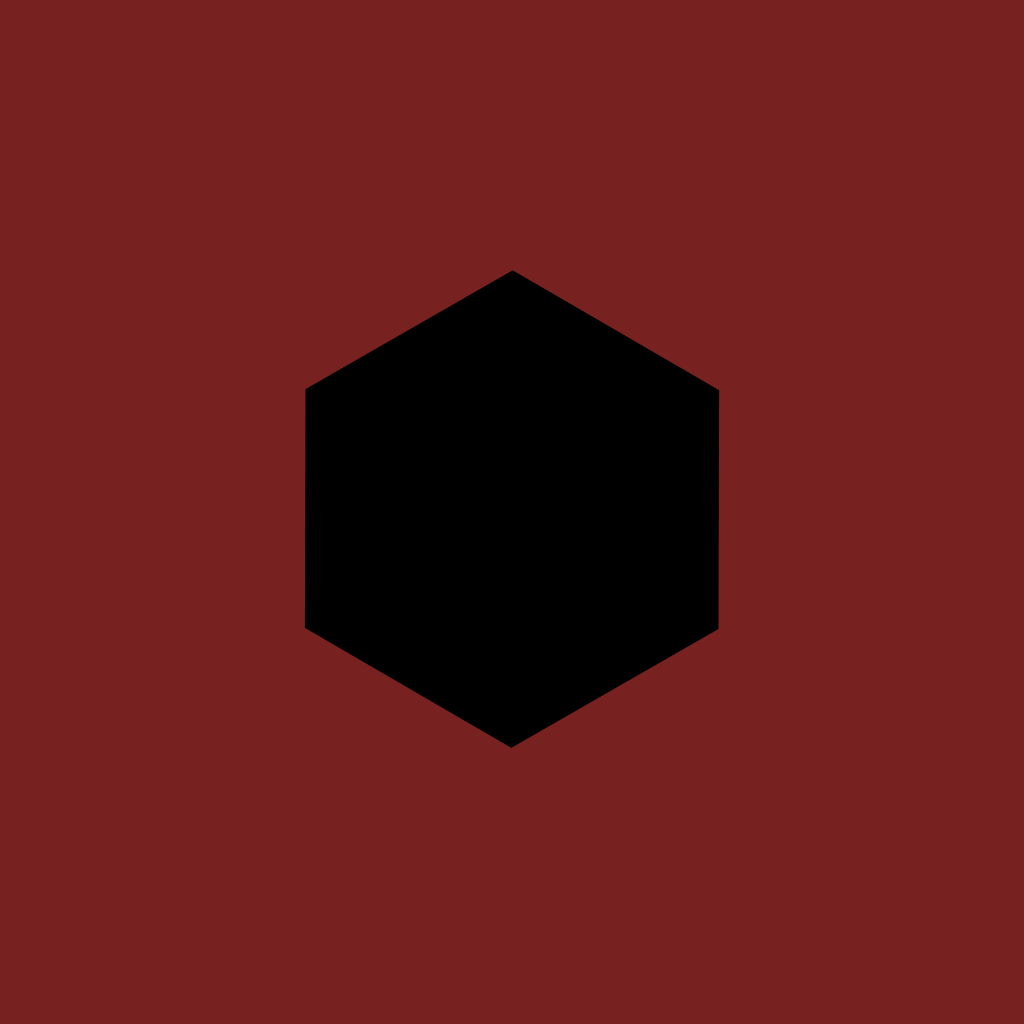
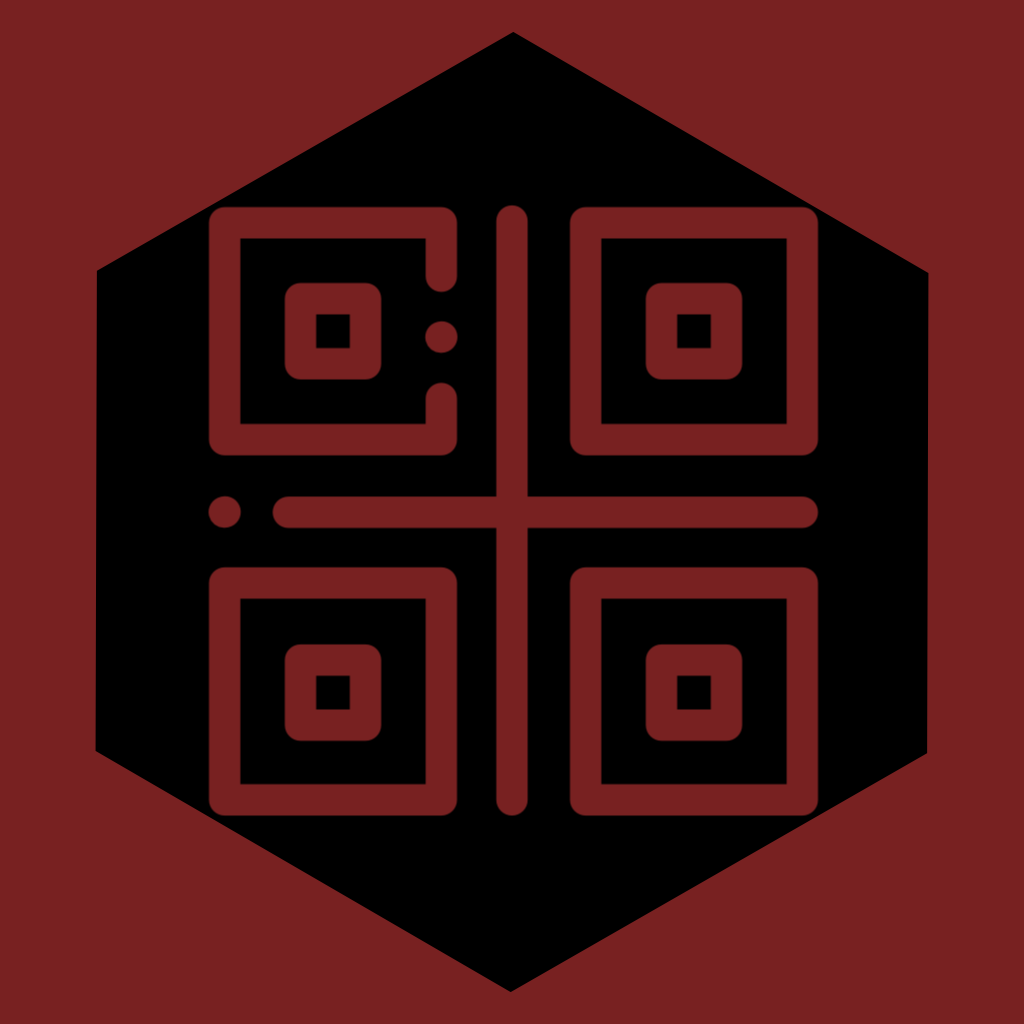
Cuatro. Splash + icono + spinner + botones

diff --git a/src/app/auth/login/login.page.scss b/src/app/auth/login/login.page.scss
@@ -34,3 +34,132 @@ ion-spinner {
   bottom: 0;
   right: 0;
 }
+
+
+#custom-overlay {
+  position: fixed;
+  top: 0;
+  right: 0;
+  bottom: 0;
+  left: 0;
+  z-index: 100000;
+  width:100%;
+  background-color: #ce93d8;
+}
+
+.flb {
+  background-color: #5d4037;
+  height:100%;
+  width:100%;
+  animation: pulse 1s linear forwards;
+  display: flex;
+  align-items: center;
+  justify-content: center;
+}
+.Aligner-item {
+  max-width: 50%;
+}
+.Aligner-item--top {
+  align-self: flex-start;
+}
+.Aligner-item--bottom {
+  align-self: flex-end;
+}
+#custom-overlay img {
+  display: block;
+  margin: 0 auto;
+  width: 25%;
+  height: auto;
+  animation: animation 3100ms linear infinite both;
+  animation-delay: 1s;
+}
+
+@keyframes pulse {
+  0% {
+    opacity:0;
+  }
+  100% {
+    opacity:1;
+  }
+}
+
+
+
+.animation-target {
+  -webkit-animation: animation 865ms linear both;
+  animation: animation 865ms linear both;
+}
+
+/* Generated with Bounce.js. Edit at http://bouncejs.com#%7Bs%3A%5B%7BT%3A%22t%22%2Ce%3A%22b%22%2Cd%3A600%2CD%3A0%2Cf%3A%7Bx%3A-300%2Cy%3A0%7D%2Ct%3A%7Bx%3A0%2Cy%3A0%7D%2Cs%3A4%2Cb%3A4%7D%2C%7BT%3A%22c%22%2Ce%3A%22s%22%2Cd%3A800%2CD%3A65%2Cf%3A%7Bx%3A1%2Cy%3A1%7D%2Ct%3A%7Bx%3A0.1%2Cy%3A2.3%7D%2Cs%3A2%2Cb%3A4%7D%2C%7BT%3A%22c%22%2Ce%3A%22s%22%2Cd%3A300%2CD%3A30%2Cf%3A%7Bx%3A1%2Cy%3A1%7D%2Ct%3A%7Bx%3A5%2Cy%3A1%7D%2Cs%3A3%2Cb%3A4%7D%5D%7D */
+
+@-webkit-keyframes animation {
+  0% { -webkit-transform: matrix3d(1, 0, 0, 0, 0, 1, 0, 0, 0, 0, 1, 0, -300, 0, 0, 1); transform: matrix3d(1, 0, 0, 0, 0, 1, 0, 0, 0, 0, 1, 0, -300, 0, 0, 1); }
+  2.92% { -webkit-transform: matrix3d(1, 0, 0, 0, 0, 1, 0, 0, 0, 0, 1, 0, -135.218, 0, 0, 1); transform: matrix3d(1, 0, 0, 0, 0, 1, 0, 0, 0, 0, 1, 0, -135.218, 0, 0, 1); }
+  3.37% { -webkit-transform: matrix3d(1, 0, 0, 0, 0, 1, 0, 0, 0, 0, 1, 0, -114.871, 0, 0, 1); transform: matrix3d(1, 0, 0, 0, 0, 1, 0, 0, 0, 0, 1, 0, -114.871, 0, 0, 1); }
+  3.47% { -webkit-transform: matrix3d(1, 0, 0, 0, 0, 1, 0, 0, 0, 0, 1, 0, -110.596, 0, 0, 1); transform: matrix3d(1, 0, 0, 0, 0, 1, 0, 0, 0, 0, 1, 0, -110.596, 0, 0, 1); }
+  4.58% { -webkit-transform: matrix3d(2.061, 0, 0, 0, 0, 1, 0, 0, 0, 0, 1, 0, -68.65, 0, 0, 1); transform: matrix3d(2.061, 0, 0, 0, 0, 1, 0, 0, 0, 0, 1, 0, -68.65, 0, 0, 1); }
+  5.69% { -webkit-transform: matrix3d(2.321, 0, 0, 0, 0, 1, 0, 0, 0, 0, 1, 0, -36.551, 0, 0, 1); transform: matrix3d(2.321, 0, 0, 0, 0, 1, 0, 0, 0, 0, 1, 0, -36.551, 0, 0, 1); }
+  5.76% { -webkit-transform: matrix3d(2.32, 0, 0, 0, 0, 1, 0, 0, 0, 0, 1, 0, -34.768, 0, 0, 1); transform: matrix3d(2.32, 0, 0, 0, 0, 1, 0, 0, 0, 0, 1, 0, -34.768, 0, 0, 1); }
+  7.41% { -webkit-transform: matrix3d(1.99, 0, 0, 0, 0, 1, 0, 0, 0, 0, 1, 0, -3.804, 0, 0, 1); transform: matrix3d(1.99, 0, 0, 0, 0, 1, 0, 0, 0, 0, 1, 0, -3.804, 0, 0, 1); }
+  7.51% { -webkit-transform: matrix3d(1.961, 0, 0, 0, 0, 1, 0, 0, 0, 0, 1, 0, -2.454, 0, 0, 1); transform: matrix3d(1.961, 0, 0, 0, 0, 1, 0, 0, 0, 0, 1, 0, -2.454, 0, 0, 1); }
+  7.88% { -webkit-transform: matrix3d(1.771, 0, 0, 0, 0, 1.062, 0, 0, 0, 0, 1, 0, 2.008, 0, 0, 1); transform: matrix3d(1.771, 0, 0, 0, 0, 1.062, 0, 0, 0, 0, 1, 0, 2.008, 0, 0, 1); }
+  8.68% { -webkit-transform: matrix3d(1.408, 0, 0, 0, 0, 1.181, 0, 0, 0, 0, 1, 0, 9.646, 0, 0, 1); transform: matrix3d(1.408, 0, 0, 0, 0, 1.181, 0, 0, 0, 0, 1, 0, 9.646, 0, 0, 1); }
+  10.03% { -webkit-transform: matrix3d(0.982, 0, 0, 0, 0, 1.333, 0, 0, 0, 0, 1, 0, 16.853, 0, 0, 1); transform: matrix3d(0.982, 0, 0, 0, 0, 1.333, 0, 0, 0, 0, 1, 0, 16.853, 0, 0, 1); }
+  10.85% { -webkit-transform: matrix3d(0.822, 0, 0, 0, 0, 1.398, 0, 0, 0, 0, 1, 0, 18.613, 0, 0, 1); transform: matrix3d(0.822, 0, 0, 0, 0, 1.398, 0, 0, 0, 0, 1, 0, 18.613, 0, 0, 1); }
+  11.53% { -webkit-transform: matrix3d(0.732, 0, 0, 0, 0, 1.439, 0, 0, 0, 0, 1, 0, 18.992, 0, 0, 1); transform: matrix3d(0.732, 0, 0, 0, 0, 1.439, 0, 0, 0, 0, 1, 0, 18.992, 0, 0, 1); }
+  12.22% { -webkit-transform: matrix3d(0.672, 0, 0, 0, 0, 1.469, 0, 0, 0, 0, 1, 0, 18.618, 0, 0, 1); transform: matrix3d(0.672, 0, 0, 0, 0, 1.469, 0, 0, 0, 0, 1, 0, 18.618, 0, 0, 1); }
+  14.18% { -webkit-transform: matrix3d(0.612, 0, 0, 0, 0, 1.501, 0, 0, 0, 0, 1, 0, 15.054, 0, 0, 1); transform: matrix3d(0.612, 0, 0, 0, 0, 1.501, 0, 0, 0, 0, 1, 0, 15.054, 0, 0, 1); }
+  14.37% { -webkit-transform: matrix3d(0.612, 0, 0, 0, 0, 1.501, 0, 0, 0, 0, 1, 0, 14.604, 0, 0, 1); transform: matrix3d(0.612, 0, 0, 0, 0, 1.501, 0, 0, 0, 0, 1, 0, 14.604, 0, 0, 1); }
+  19.23% { -webkit-transform: matrix3d(0.737, 0, 0, 0, 0, 1.371, 0, 0, 0, 0, 1, 0, 3.855, 0, 0, 1); transform: matrix3d(0.737, 0, 0, 0, 0, 1.371, 0, 0, 0, 0, 1, 0, 3.855, 0, 0, 1); }
+  20.01% { -webkit-transform: matrix3d(0.763, 0, 0, 0, 0, 1.338, 0, 0, 0, 0, 1, 0, 2.724, 0, 0, 1); transform: matrix3d(0.763, 0, 0, 0, 0, 1.338, 0, 0, 0, 0, 1, 0, 2.724, 0, 0, 1); }
+  23.05% { -webkit-transform: matrix3d(0.856, 0, 0, 0, 0, 1.211, 0, 0, 0, 0, 1, 0, 0.036, 0, 0, 1); transform: matrix3d(0.856, 0, 0, 0, 0, 1.211, 0, 0, 0, 0, 1, 0, 0.036, 0, 0, 1); }
+  25.75% { -webkit-transform: matrix3d(0.923, 0, 0, 0, 0, 1.114, 0, 0, 0, 0, 1, 0, -0.709, 0, 0, 1); transform: matrix3d(0.923, 0, 0, 0, 0, 1.114, 0, 0, 0, 0, 1, 0, -0.709, 0, 0, 1); }
+  26.94% { -webkit-transform: matrix3d(0.947, 0, 0, 0, 0, 1.078, 0, 0, 0, 0, 1, 0, -0.76, 0, 0, 1); transform: matrix3d(0.947, 0, 0, 0, 0, 1.078, 0, 0, 0, 0, 1, 0, -0.76, 0, 0, 1); }
+  31.58% { -webkit-transform: matrix3d(1.009, 0, 0, 0, 0, 0.987, 0, 0, 0, 0, 1, 0, -0.406, 0, 0, 1); transform: matrix3d(1.009, 0, 0, 0, 0, 0.987, 0, 0, 0, 0, 1, 0, -0.406, 0, 0, 1); }
+  31.73% { -webkit-transform: matrix3d(1.01, 0, 0, 0, 0, 0.986, 0, 0, 0, 0, 1, 0, -0.392, 0, 0, 1); transform: matrix3d(1.01, 0, 0, 0, 0, 0.986, 0, 0, 0, 0, 1, 0, -0.392, 0, 0, 1); }
+  37.32% { -webkit-transform: matrix3d(1.029, 0, 0, 0, 0, 0.958, 0, 0, 0, 0, 1, 0, -0.03, 0, 0, 1); transform: matrix3d(1.029, 0, 0, 0, 0, 0.958, 0, 0, 0, 0, 1, 0, -0.03, 0, 0, 1); }
+  38.15% { -webkit-transform: matrix3d(1.029, 0, 0, 0, 0, 0.958, 0, 0, 0, 0, 1, 0, -0.008, 0, 0, 1); transform: matrix3d(1.029, 0, 0, 0, 0, 0.958, 0, 0, 0, 0, 1, 0, -0.008, 0, 0, 1); }
+  42.35% { -webkit-transform: matrix3d(1.022, 0, 0, 0, 0, 0.969, 0, 0, 0, 0, 1, 0, 0.03, 0, 0, 1); transform: matrix3d(1.022, 0, 0, 0, 0, 0.969, 0, 0, 0, 0, 1, 0, 0.03, 0, 0, 1); }
+  48.9% { -webkit-transform: matrix3d(1.007, 0, 0, 0, 0, 0.99, 0, 0, 0, 0, 1, 0, 0.009, 0, 0, 1); transform: matrix3d(1.007, 0, 0, 0, 0, 0.99, 0, 0, 0, 0, 1, 0, 0.009, 0, 0, 1); }
+  57.77% { -webkit-transform: matrix3d(0.998, 0, 0, 0, 0, 1.003, 0, 0, 0, 0, 1, 0, -0.001, 0, 0, 1); transform: matrix3d(0.998, 0, 0, 0, 0, 1.003, 0, 0, 0, 0, 1, 0, -0.001, 0, 0, 1); }
+  60.47% { -webkit-transform: matrix3d(0.998, 0, 0, 0, 0, 1.004, 0, 0, 0, 0, 1, 0, -0.001, 0, 0, 1); transform: matrix3d(0.998, 0, 0, 0, 0, 1.004, 0, 0, 0, 0, 1, 0, -0.001, 0, 0, 1); }
+  69.36% { -webkit-transform: matrix3d(0.999, 0, 0, 0, 0, 1.001, 0, 0, 0, 0, 1, 0, 0, 0, 0, 1); transform: matrix3d(0.999, 0, 0, 0, 0, 1.001, 0, 0, 0, 0, 1, 0, 0, 0, 0, 1); }
+  83.61% { -webkit-transform: matrix3d(1, 0, 0, 0, 0, 1, 0, 0, 0, 0, 1, 0, 0, 0, 0, 1); transform: matrix3d(1, 0, 0, 0, 0, 1, 0, 0, 0, 0, 1, 0, 0, 0, 0, 1); }
+  100% { -webkit-transform: matrix3d(1, 0, 0, 0, 0, 1, 0, 0, 0, 0, 1, 0, 0, 0, 0, 1); transform: matrix3d(1, 0, 0, 0, 0, 1, 0, 0, 0, 0, 1, 0, 0, 0, 0, 1); }
+}
+
+@keyframes animation {
+  0% { -webkit-transform: matrix3d(1, 0, 0, 0, 0, 1, 0, 0, 0, 0, 1, 0, -300, 0, 0, 1); transform: matrix3d(1, 0, 0, 0, 0, 1, 0, 0, 0, 0, 1, 0, -300, 0, 0, 1); }
+  2.92% { -webkit-transform: matrix3d(1, 0, 0, 0, 0, 1, 0, 0, 0, 0, 1, 0, -135.218, 0, 0, 1); transform: matrix3d(1, 0, 0, 0, 0, 1, 0, 0, 0, 0, 1, 0, -135.218, 0, 0, 1); }
+  3.37% { -webkit-transform: matrix3d(1, 0, 0, 0, 0, 1, 0, 0, 0, 0, 1, 0, -114.871, 0, 0, 1); transform: matrix3d(1, 0, 0, 0, 0, 1, 0, 0, 0, 0, 1, 0, -114.871, 0, 0, 1); }
+  3.47% { -webkit-transform: matrix3d(1, 0, 0, 0, 0, 1, 0, 0, 0, 0, 1, 0, -110.596, 0, 0, 1); transform: matrix3d(1, 0, 0, 0, 0, 1, 0, 0, 0, 0, 1, 0, -110.596, 0, 0, 1); }
+  4.58% { -webkit-transform: matrix3d(2.061, 0, 0, 0, 0, 1, 0, 0, 0, 0, 1, 0, -68.65, 0, 0, 1); transform: matrix3d(2.061, 0, 0, 0, 0, 1, 0, 0, 0, 0, 1, 0, -68.65, 0, 0, 1); }
+  5.69% { -webkit-transform: matrix3d(2.321, 0, 0, 0, 0, 1, 0, 0, 0, 0, 1, 0, -36.551, 0, 0, 1); transform: matrix3d(2.321, 0, 0, 0, 0, 1, 0, 0, 0, 0, 1, 0, -36.551, 0, 0, 1); }
+  5.76% { -webkit-transform: matrix3d(2.32, 0, 0, 0, 0, 1, 0, 0, 0, 0, 1, 0, -34.768, 0, 0, 1); transform: matrix3d(2.32, 0, 0, 0, 0, 1, 0, 0, 0, 0, 1, 0, -34.768, 0, 0, 1); }
+  7.41% { -webkit-transform: matrix3d(1.99, 0, 0, 0, 0, 1, 0, 0, 0, 0, 1, 0, -3.804, 0, 0, 1); transform: matrix3d(1.99, 0, 0, 0, 0, 1, 0, 0, 0, 0, 1, 0, -3.804, 0, 0, 1); }
+  7.51% { -webkit-transform: matrix3d(1.961, 0, 0, 0, 0, 1, 0, 0, 0, 0, 1, 0, -2.454, 0, 0, 1); transform: matrix3d(1.961, 0, 0, 0, 0, 1, 0, 0, 0, 0, 1, 0, -2.454, 0, 0, 1); }
+  7.88% { -webkit-transform: matrix3d(1.771, 0, 0, 0, 0, 1.062, 0, 0, 0, 0, 1, 0, 2.008, 0, 0, 1); transform: matrix3d(1.771, 0, 0, 0, 0, 1.062, 0, 0, 0, 0, 1, 0, 2.008, 0, 0, 1); }
+  8.68% { -webkit-transform: matrix3d(1.408, 0, 0, 0, 0, 1.181, 0, 0, 0, 0, 1, 0, 9.646, 0, 0, 1); transform: matrix3d(1.408, 0, 0, 0, 0, 1.181, 0, 0, 0, 0, 1, 0, 9.646, 0, 0, 1); }
+  10.03% { -webkit-transform: matrix3d(0.982, 0, 0, 0, 0, 1.333, 0, 0, 0, 0, 1, 0, 16.853, 0, 0, 1); transform: matrix3d(0.982, 0, 0, 0, 0, 1.333, 0, 0, 0, 0, 1, 0, 16.853, 0, 0, 1); }
+  10.85% { -webkit-transform: matrix3d(0.822, 0, 0, 0, 0, 1.398, 0, 0, 0, 0, 1, 0, 18.613, 0, 0, 1); transform: matrix3d(0.822, 0, 0, 0, 0, 1.398, 0, 0, 0, 0, 1, 0, 18.613, 0, 0, 1); }
+  11.53% { -webkit-transform: matrix3d(0.732, 0, 0, 0, 0, 1.439, 0, 0, 0, 0, 1, 0, 18.992, 0, 0, 1); transform: matrix3d(0.732, 0, 0, 0, 0, 1.439, 0, 0, 0, 0, 1, 0, 18.992, 0, 0, 1); }
+  12.22% { -webkit-transform: matrix3d(0.672, 0, 0, 0, 0, 1.469, 0, 0, 0, 0, 1, 0, 18.618, 0, 0, 1); transform: matrix3d(0.672, 0, 0, 0, 0, 1.469, 0, 0, 0, 0, 1, 0, 18.618, 0, 0, 1); }
+  14.18% { -webkit-transform: matrix3d(0.612, 0, 0, 0, 0, 1.501, 0, 0, 0, 0, 1, 0, 15.054, 0, 0, 1); transform: matrix3d(0.612, 0, 0, 0, 0, 1.501, 0, 0, 0, 0, 1, 0, 15.054, 0, 0, 1); }
+  14.37% { -webkit-transform: matrix3d(0.612, 0, 0, 0, 0, 1.501, 0, 0, 0, 0, 1, 0, 14.604, 0, 0, 1); transform: matrix3d(0.612, 0, 0, 0, 0, 1.501, 0, 0, 0, 0, 1, 0, 14.604, 0, 0, 1); }
+  19.23% { -webkit-transform: matrix3d(0.737, 0, 0, 0, 0, 1.371, 0, 0, 0, 0, 1, 0, 3.855, 0, 0, 1); transform: matrix3d(0.737, 0, 0, 0, 0, 1.371, 0, 0, 0, 0, 1, 0, 3.855, 0, 0, 1); }
+  20.01% { -webkit-transform: matrix3d(0.763, 0, 0, 0, 0, 1.338, 0, 0, 0, 0, 1, 0, 2.724, 0, 0, 1); transform: matrix3d(0.763, 0, 0, 0, 0, 1.338, 0, 0, 0, 0, 1, 0, 2.724, 0, 0, 1); }
+  23.05% { -webkit-transform: matrix3d(0.856, 0, 0, 0, 0, 1.211, 0, 0, 0, 0, 1, 0, 0.036, 0, 0, 1); transform: matrix3d(0.856, 0, 0, 0, 0, 1.211, 0, 0, 0, 0, 1, 0, 0.036, 0, 0, 1); }
+  25.75% { -webkit-transform: matrix3d(0.923, 0, 0, 0, 0, 1.114, 0, 0, 0, 0, 1, 0, -0.709, 0, 0, 1); transform: matrix3d(0.923, 0, 0, 0, 0, 1.114, 0, 0, 0, 0, 1, 0, -0.709, 0, 0, 1); }
+  26.94% { -webkit-transform: matrix3d(0.947, 0, 0, 0, 0, 1.078, 0, 0, 0, 0, 1, 0, -0.76, 0, 0, 1); transform: matrix3d(0.947, 0, 0, 0, 0, 1.078, 0, 0, 0, 0, 1, 0, -0.76, 0, 0, 1); }
+  31.58% { -webkit-transform: matrix3d(1.009, 0, 0, 0, 0, 0.987, 0, 0, 0, 0, 1, 0, -0.406, 0, 0, 1); transform: matrix3d(1.009, 0, 0, 0, 0, 0.987, 0, 0, 0, 0, 1, 0, -0.406, 0, 0, 1); }
+  31.73% { -webkit-transform: matrix3d(1.01, 0, 0, 0, 0, 0.986, 0, 0, 0, 0, 1, 0, -0.392, 0, 0, 1); transform: matrix3d(1.01, 0, 0, 0, 0, 0.986, 0, 0, 0, 0, 1, 0, -0.392, 0, 0, 1); }
+  37.32% { -webkit-transform: matrix3d(1.029, 0, 0, 0, 0, 0.958, 0, 0, 0, 0, 1, 0, -0.03, 0, 0, 1); transform: matrix3d(1.029, 0, 0, 0, 0, 0.958, 0, 0, 0, 0, 1, 0, -0.03, 0, 0, 1); }
+  38.15% { -webkit-transform: matrix3d(1.029, 0, 0, 0, 0, 0.958, 0, 0, 0, 0, 1, 0, -0.008, 0, 0, 1); transform: matrix3d(1.029, 0, 0, 0, 0, 0.958, 0, 0, 0, 0, 1, 0, -0.008, 0, 0, 1); }
+  42.35% { -webkit-transform: matrix3d(1.022, 0, 0, 0, 0, 0.969, 0, 0, 0, 0, 1, 0, 0.03, 0, 0, 1); transform: matrix3d(1.022, 0, 0, 0, 0, 0.969, 0, 0, 0, 0, 1, 0, 0.03, 0, 0, 1); }
+  48.9% { -webkit-transform: matrix3d(1.007, 0, 0, 0, 0, 0.99, 0, 0, 0, 0, 1, 0, 0.009, 0, 0, 1); transform: matrix3d(1.007, 0, 0, 0, 0, 0.99, 0, 0, 0, 0, 1, 0, 0.009, 0, 0, 1); }
+  57.77% { -webkit-transform: matrix3d(0.998, 0, 0, 0, 0, 1.003, 0, 0, 0, 0, 1, 0, -0.001, 0, 0, 1); transform: matrix3d(0.998, 0, 0, 0, 0, 1.003, 0, 0, 0, 0, 1, 0, -0.001, 0, 0, 1); }
+  60.47% { -webkit-transform: matrix3d(0.998, 0, 0, 0, 0, 1.004, 0, 0, 0, 0, 1, 0, -0.001, 0, 0, 1); transform: matrix3d(0.998, 0, 0, 0, 0, 1.004, 0, 0, 0, 0, 1, 0, -0.001, 0, 0, 1); }
+  69.36% { -webkit-transform: matrix3d(0.999, 0, 0, 0, 0, 1.001, 0, 0, 0, 0, 1, 0, 0, 0, 0, 1); transform: matrix3d(0.999, 0, 0, 0, 0, 1.001, 0, 0, 0, 0, 1, 0, 0, 0, 0, 1); }
+  83.61% { -webkit-transform: matrix3d(1, 0, 0, 0, 0, 1, 0, 0, 0, 0, 1, 0, 0, 0, 0, 1); transform: matrix3d(1, 0, 0, 0, 0, 1, 0, 0, 0, 0, 1, 0, 0, 0, 0, 1); }
+  100% { -webkit-transform: matrix3d(1, 0, 0, 0, 0, 1, 0, 0, 0, 0, 1, 0, 0, 0, 0, 1); transform: matrix3d(1, 0, 0, 0, 0, 1, 0, 0, 0, 0, 1, 0, 0, 0, 0, 1); }
+}

diff --git a/src/app/auth/login/login.page.ts b/src/app/auth/login/login.page.ts
@@ -15,20 +15,25 @@ export class LoginPage implements OnInit {
   email: string;
   password: string;
   loading: boolean;
-  ingresar: boolean;
+  splash: boolean;
+  // secondPage = SecondPagePage;
 
   constructor(
     private  router:  Router,
     public afAuth: AngularFireAuth
   ) {
     this.loading = false;
-    // this.ingresar = false;
-
+    this.splash = true;
   }
 
   ngOnInit() {
-    // this.loading = false;
-    // this.ingresar = false;
+    this.loading = false;
+    this.ionViewDidLoad();
+  }
+
+  ionViewDidLoad() {
+    console.log('ionViewDidLoad');
+    setTimeout(() => this.splash = false, 3000);
   }
 
   async login() {
@@ -39,25 +44,19 @@ export class LoginPage implements OnInit {
       // console.log(response);
       if (response.user) {
         this.loading = false;
-        this.ingresar = false;
+
         this.router.navigateByUrl('bienvenido');
       }
 
     } catch (err) {
         this.loading = false;
-        this.ingresar = false;
+
         // if (err.code === 'auth/user-not-found' ) {
         //     console.dir(err);
         // } else {
         //   console.dir(err);
         // }
     }
-  }
-  verificar () {
-    if (this.email != undefined && this.password != undefined)
-      this.ingresar = true;
-    else
-      this.ingresar = false;
   }
 
   cargarUsuario(user) {

diff --git a/src/app/auth/login/login.page.html b/src/app/auth/login/login.page.html
@@ -1,4 +1,14 @@
 <ion-content color="dark" padding>
+
+
+  <div id="custom-overlay" [style.display]="splash ? 'flex': 'none'">
+    <div class="flb">
+      <div class="Aligner-item Aligner-item--top"></div>
+      <img class="animation-target" src="assets/icono.cuatro.svg">
+      <div class="Aligner-item Aligner-item--bottom"></div>
+    </div>
+  </div>
+
   <div class="" *ngIf="loading">
       <ion-spinner name="dots" color="light" ></ion-spinner>
   </div>
